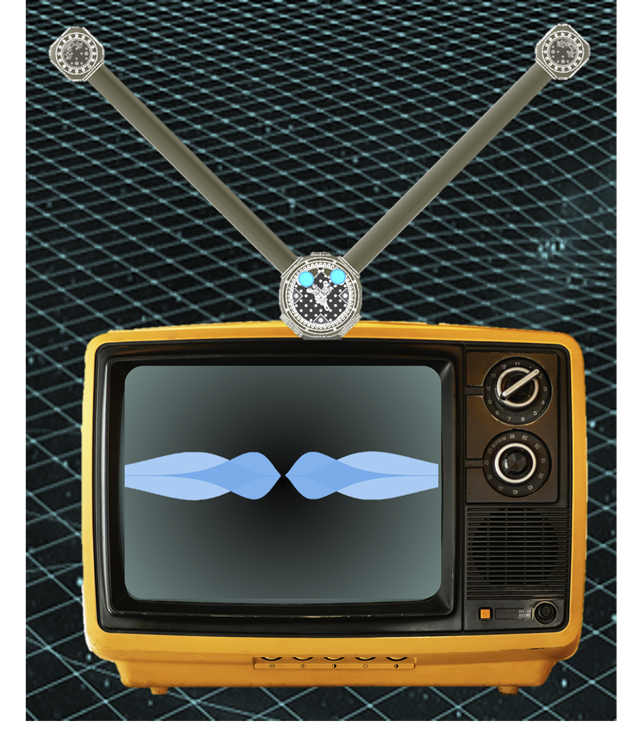
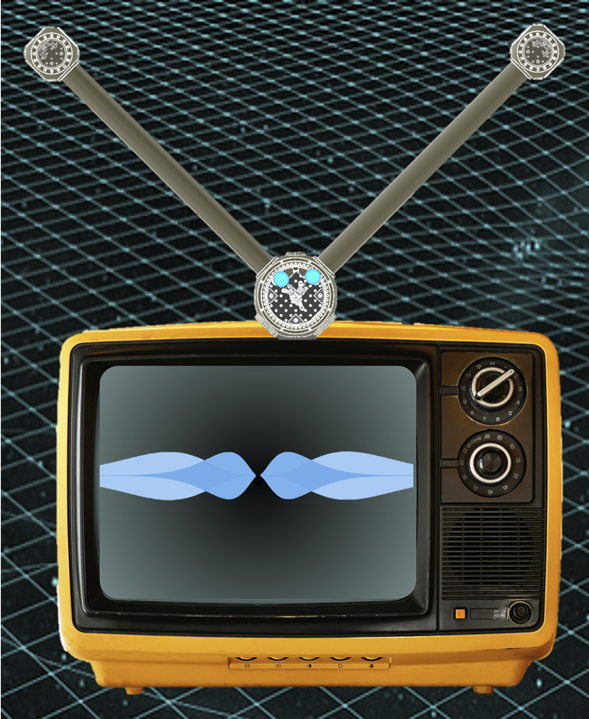
Updated "What We Do" section
Changes:

- Added background images to the different project buttons
-Updated links and descriptions of each project on the project page
-Replaced the "Learn More" buttons by making the roles (PI, Grad, Undergrad, Alumni) themselves a button
-Fixed the DM TV png, it had some transparent space on the left side that made the image unaligned

diff --git a/projects.html b/projects.html
@@ -31,19 +31,22 @@
 
 					<span class="image left"><img src="images\DM_Television.png" alt="" /></span>
 					<h2>DM TELEVISION</h2>
-					<p>This is a gravitational wave (GW) detector which uses optically levitated microparticles as
-						resonant sensors for sensing small variations in the spacetime curvature. Previously, LIGO has
-						detected these variations in spacetime occurring at frequencies from 10 Hz to few kHz. Those
-						“ripples” in spacetime were generated typically by two compact objects (mostly blackholes, a few
-						neutron stars) inspiraling around each other and eventually merging. The LISA observatory will
-						look for similar GWs at lower frequencies. We aim to look for GWs at higher frequencies, from
-						ten kilohertz to a few hundred kilohertz. </p>
-					<p>The UC Davis detector is part of a two-node observatory network, with the other node at
-						Northwestern University.</p>
-					</br>
-					</br>
-					</br>
-					</br>
+					<p>The Dark Matter TEsts using LEVItated Sensor Interferometer Observatory Network 
+						(DM Television) is a gravitational wave (GW) detector which uses optically levitated 
+						microparticles as resonant sensors for sensing small variations in the spacetime 
+						curvature. Previously, LIGO has detected these variations in spacetime occurring 
+						at frequencies from 10 Hz to few kHz. Those “ripples” in spacetime were generated 
+						typically by two compact objects (black holes or neutron stars) inspiraling around 
+						each other and eventually colliding.</p>
+
+					<p>The upcoming LISA satellite observatory will look for similar GWs at lower frequencies.
+						 However, this leaves an unexplored region at higher frequencies. Novel sources such 
+						 as sub-solar mass primordial black holes, as well as gravitationally bound states of 
+						 the QCD axion, formed via black hole superradiance, may reside here. This project 
+						 aims to explore that region, from 10 kHz, up to a few hundred kHz.</p>
+
+					<p>The UC Davis detector is part of a two-node observatory network, similar to LIGO Hanford
+						 and Livingston, with the other node at Northwestern University.</p>
 					</br>
 					<h5>Read more:</h5>
 					<ul class="alt">
@@ -74,12 +77,12 @@
 						particle physics, <b> the Strong CP problem. </b> </p>
 
 					<p><b>ARIADNE</b> is searching for a new force mediated by the QCD axion. This force couples a spin
-						and mass via an effective magnetic field depending on the separation between the mass and spin.
-						Therefore, a periodic change in the separation will cause a modulation of this effective
+						and mass via an effective magnetic field that depends on the separation between the mass and spin.
+						Therefore, a periodic change in the separation will modulate this effective
 						magnetic field. <span class="image right"><img src="images\Ariadne_2.png" alt="" /></span> This
-						modulation can be measured via NMR; i.e. preparing the spin in a constant magnetic field and
-						modulating the effective field in a transverse direction perpendicular to the bias field. We use
-						a tungsten rotor as the source mass, and hyperpolarized 3He gas as a spin ensemble in this
+						modulation can be measured via nuclear magnetic resonance (NMR); i.e. preparing the spin in a 
+						constant magnetic field and modulating the effective field in a transverse direction perpendicular 
+						to the bias field. We use a tungsten rotor as the source mass, and hyperpolarized 3He gas as a spin ensemble in this
 						experiment. As the tungsten source mass rotates, the mass (and hence the magnetic field) seen by
 						the 3He spins gets modulated. If this modulation occurs at the Larmor frequency, the spins
 						acquire a slight transverse magnetization, which we then pick up via a SQUID.</p>
@@ -102,21 +105,38 @@
 			<div class="inner">
 				<section>
 					<h3>LIGO</h3>
-					<!-- <span class="image left"><img src="images\DM_Television.png" alt="" /></span> -->
+					<p>Aggarwal did her PhD on quantum optomechanical squeezing for GW detection with the LIGO group. 
+						At this time, the group is involved in innovating new methods to look for dark matter using the
+						 LIGO detector. </p>
 
 					<h5>Read more:</h5>
-					<ul class="alt">
-						<li><a href="https://journals.aps.org/prl/abstract/10.1103/PhysRevLett.128.111101"
-								target="_blank" title="Go to Example">Searching for New Physics with a
-								Levitated-Sensor-Based Gravitational-Wave Detector</a></li>
-						<li><a href="https://journals.aps.org/prl/abstract/10.1103/PhysRevLett.129.053604"
-								target="_blank" title="Go to Example">Optical Trapping of High-Aspect-Ratio NaYF
-								Hexagonal Prisms for kHz-MHz Gravitational Wave Detectors</a></li>
-						<li><a href="https://journals.aps.org/prd/abstract/10.1103/PhysRevD.110.123025" target="_blank"
-								title="Go to Example">Simulating the Galactic population of axion clouds around
-								stellar-origin black holes: Gravitational wave signals in the 10–100 kHz band</a>
+						<h4>PBS Search:</h4>
+						<ul class="alt"><li><a href="https://journals.aps.org/prl/abstract/10.1103/PhysRevLett.133.111401"
+								target="_blank" title="Go to Example">Gravitational Wave Constraints on Planetary-Mass 
+								Primordial Black Holes Using LIGO O3a Data</a></li>
+						<li><a href="https://journals.aps.org/prd/abstract/10.1103/PhysRevD.110.082004"
+								target="_blank" title="Go to Example">Method to search for inspiraling planetary-mass 
+								ultracompact binaries using the generalized frequency-Hough transform in LIGO O3a data</a></li>
+						<li><a href="https://journals.aps.org/prd/abstract/10.1103/PhysRevD.105.062008"
+								target="_blank" title="Go to Example">Constraints on planetary and asteroid-mass 
+								primordial black holes from continuous gravitational-wave searches</a>
+						</ul>
 						</li>
-					</ul>
+						<h4>Dilation Search:</h4>
+						<ul class="alt"><li><a href="https://arxiv.org/abs/2210.17487"
+								target="_blank" title="Go to Example">Advanced LIGO, LISA, and Cosmic Explorer as
+								 dark matter transducers</a></li>
+						</ul>
+						<h4>Quantum Noise:</h4>
+						<ul class="alt">
+						<li><a href="https://www.nature.com/articles/s41567-020-0877-x"
+								target="_blank" title="Go to Example">Room-temperature optomechanical squeezing</a></li>
+						<li><a href="https://www.nature.com/articles/s41586-019-1051-4"
+								target="_blank" title="Go to Example">Measurement of quantum back action in the audio band 
+								at room temperature</a></li>
+						<li><a href="https://arxiv.org/abs/2006.14323"
+								target="_blank" title="Go to Example">A room temperature optomechanical squeezer</a>
+						</ul>
 				</section>
 			</div>
 		</section>

diff --git a/index.html b/index.html
@@ -71,11 +71,10 @@
 						data-position="center center" /></a>
 				<div class="content">
 					<div class="inner">
-						<h2>PI</h2>
-						<p> Nancy Aggarwal </p>
-						<ul class="actions">
-							<li><a href="/people.html#PI" class="button">Learn more</a></li>
-						</ul>
+					<h2> Nancy Aggarwal </h2>
+						<h3>
+					<a href="/people.html#PI" class="button">Principal Investigator</a>
+						</h3>
 					</div>
 				</div>
 			</section>
@@ -95,80 +94,86 @@
 			</section>
 			-->
 			<section>
-				
-				<a href="/people.html#Graduate" class="image"><img id="random-image" alt="Random image"
-						data-position="25% 25%" /></a>
-				<div class="content">
-					<div class="inner">
-						<h2>Graduate students</h2>
-						<p></p>
-						<ul class="actions">
-							<li><a href="/people.html#Graduate" class="button">Learn more</a></li>
-						</ul>
-					</div>
+			<a href="/people.html#Graduate" class="image">
+				<img id="random-image" alt="Random image" data-position="25% 25%" />
+			</a>
+			<div class="content">
+				<div class="inner">
+				<h2>
+					<a href="/people.html#Graduate" class="button">Graduate students</a>
+				</h2>
+				<p></p>
 				</div>
+			</div>
 			</section>
+
 			<section>
-				<a href="/people.html#Undergraduate" class="image"><img src="images/pic03.jpg" alt=""
-						data-position="center center" /></a>
-				<div class="content">
-					<div class="inner">
-						<h2>Undergraduate students</h2>
-						<p></p>
-						<ul class="actions">
-							<li><a href="/people.html#Undergraduate" class="button">Learn more</a></li>
-						</ul>
-					</div>
+			<a href="/people.html#Undergraduate" class="image">
+				<img src="images/pic03.jpg" alt="" data-position="center center" />
+			</a>
+			<div class="content">
+				<div class="inner">
+				<h2>
+					<a href="/people.html#Undergraduate" class="button">Undergraduate students</a>
+				</h2>
+				<p></p>
 				</div>
+			</div>
 			</section>
+
 			<section>
-				<a href="/people.html#Alumni" class="image"><img src="images/pic03.jpg" alt=""
-						data-position="top center" /></a>
-				<div class="content">
-					<div class="inner">
-						<h2>Alumni</h2>
-						<p></p>
-						<ul class="actions">
-							<li><a href="/people.html#Alumni" class="button">Learn more</a></li>
-						</ul>
-					</div>
+			<a href="/people.html#Alumni" class="image">
+				<img src="images/pic03.jpg" alt="" data-position="top center" />
+			</a>
+			<div class="content">
+				<div class="inner">
+				<h2>
+					<a href="/people.html#Alumni" class="button">Alumni</a>
+				</h2>
+				<p></p>
 				</div>
+			</div>
 			</section>
-		</section>
 
 		<!-- Two -->
 		<section id="two" class="wrapper style3 fade-up">
-			<div class="inner">
-				<h2>What we do</h2>
-				<div class="features">
-					<section>
-						<a href="/projects.html#DM_Television">
-							<h2>DM TELEVISION</h2>
-							<p>Dark Matter TEsts using </br> LEVItated Sensor Interferometer </br> Observatory Network
-							</p>
-						</a>
-					</section>
-					<section>
-						<a href="/projects.html#ARIADNE">
-							<h2>ARIADNE</h2>
-							<p>Axion Resonant InterAction </br> DetectioN Experiment </p>
-						</a>
-					</section>
-					<section>
-						<a href="/projects.html#LIGO">
-							<h2>LIGO</h2>
-							<p>Laser Interferometer </br> Gravitational Wave Observatory </p>
-						</a>
-					</section>
+  <div class="inner">
+    <h2>What we do</h2>
+    <div class="features">
+      <section class="feature dm-tv">
+        <a href="/projects.html#DM_Television">
+          <h2>DM TELEVISION</h2>
+          <p>
+            Dark Matter TEsts using <br>
+            LEVItated Sensor Interferometer <br>
+            Observatory Network
+          </p>
+        </a>
+      </section>
 
-					
-					
-				</div>
-				<ul class="actions">
-					<li><a href="projects.html" class="button">Learn more</a></li>
-				</ul>
-			</div>
-		</section>
+      <section class="feature ariadne">
+        <a href="/projects.html#ARIADNE">
+          <h2>ARIADNE</h2>
+          <p>
+            Axion Resonant InterAction <br>
+            DetectioN Experiment
+          </p>
+        </a>
+      </section>
+
+      <section class="feature ligo">
+        <a href="/projects.html#LIGO">
+          <h2>LIGO</h2>
+          <p>
+            Laser Interferometer <br>
+            Gravitational Wave Observatory
+          </p>
+        </a>
+      </section>
+    </div>
+  </div>
+</section>
+
 
 		<!-- Three -->
 		<section id="three" class="wrapper style1 fade-up">

diff --git a/assets/css/main.css b/assets/css/main.css
@@ -3915,3 +3915,55 @@ input, select, textarea {
 			}
 
 		}
+
+.features .feature a {
+  display: block;
+  padding: 2em;
+  text-align: center;
+  color: white;
+  text-decoration: none;
+  border-radius: 12px;
+  position: relative;
+  background-size: cover;
+  background-position: center;
+  background-repeat: no-repeat;
+  overflow: hidden;
+  transition: transform 0.3s ease, box-shadow 0.3s ease;
+}
+
+.features .feature a::before {
+  content: "";
+  position: absolute;
+  top: -1px;
+  left: -1px;
+  right: -1px;
+  bottom: -1px;
+  background-color: rgba(0, 0, 0, 0.7);
+  border-radius: inherit;
+  opacity: 1.0;
+  z-index: 0;
+}
+
+.features .feature a h2,
+.features .feature a p {
+  position: relative;
+  z-index: 1;
+}
+
+.features .feature a:hover {
+  transform: scale(1.03);
+  box-shadow: 0 8px 20px rgba(0, 0, 0, 0.3);
+}
+
+.features .dm-tv a {
+  background-image: url('/images/DM_Television.png');
+}
+.features .ariadne a {
+  background-image: url('/images/Ariadne.png');
+}
+.features .ligo a {
+  background-image: url('/images/LIGO.png');
+}
+
+
+
